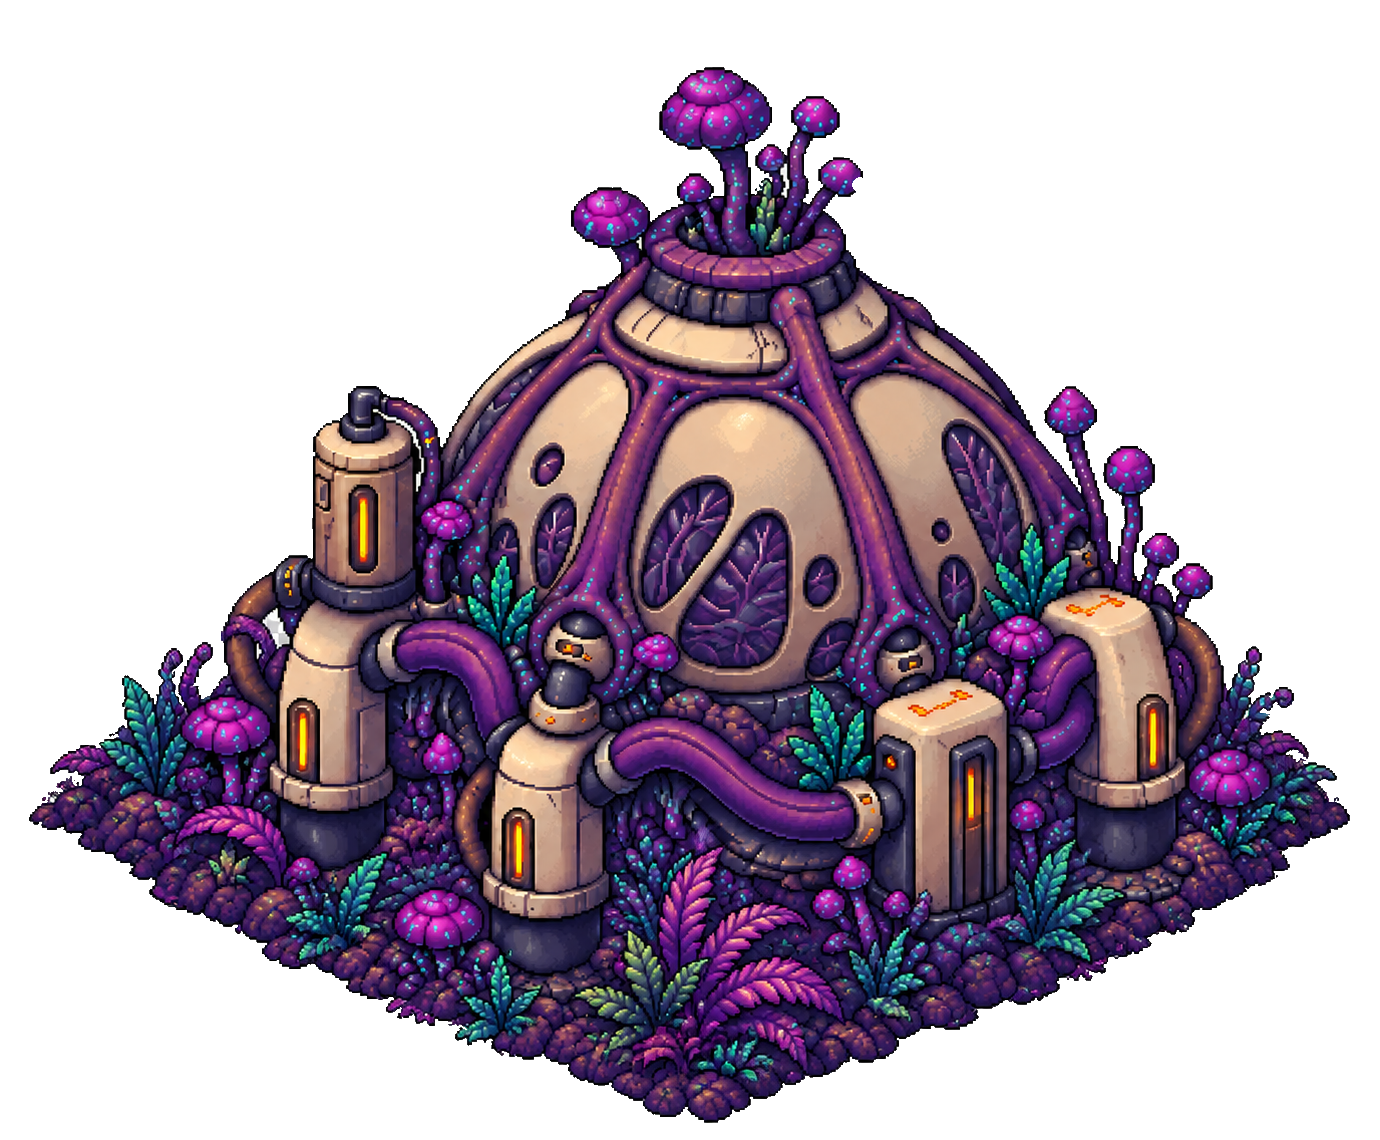
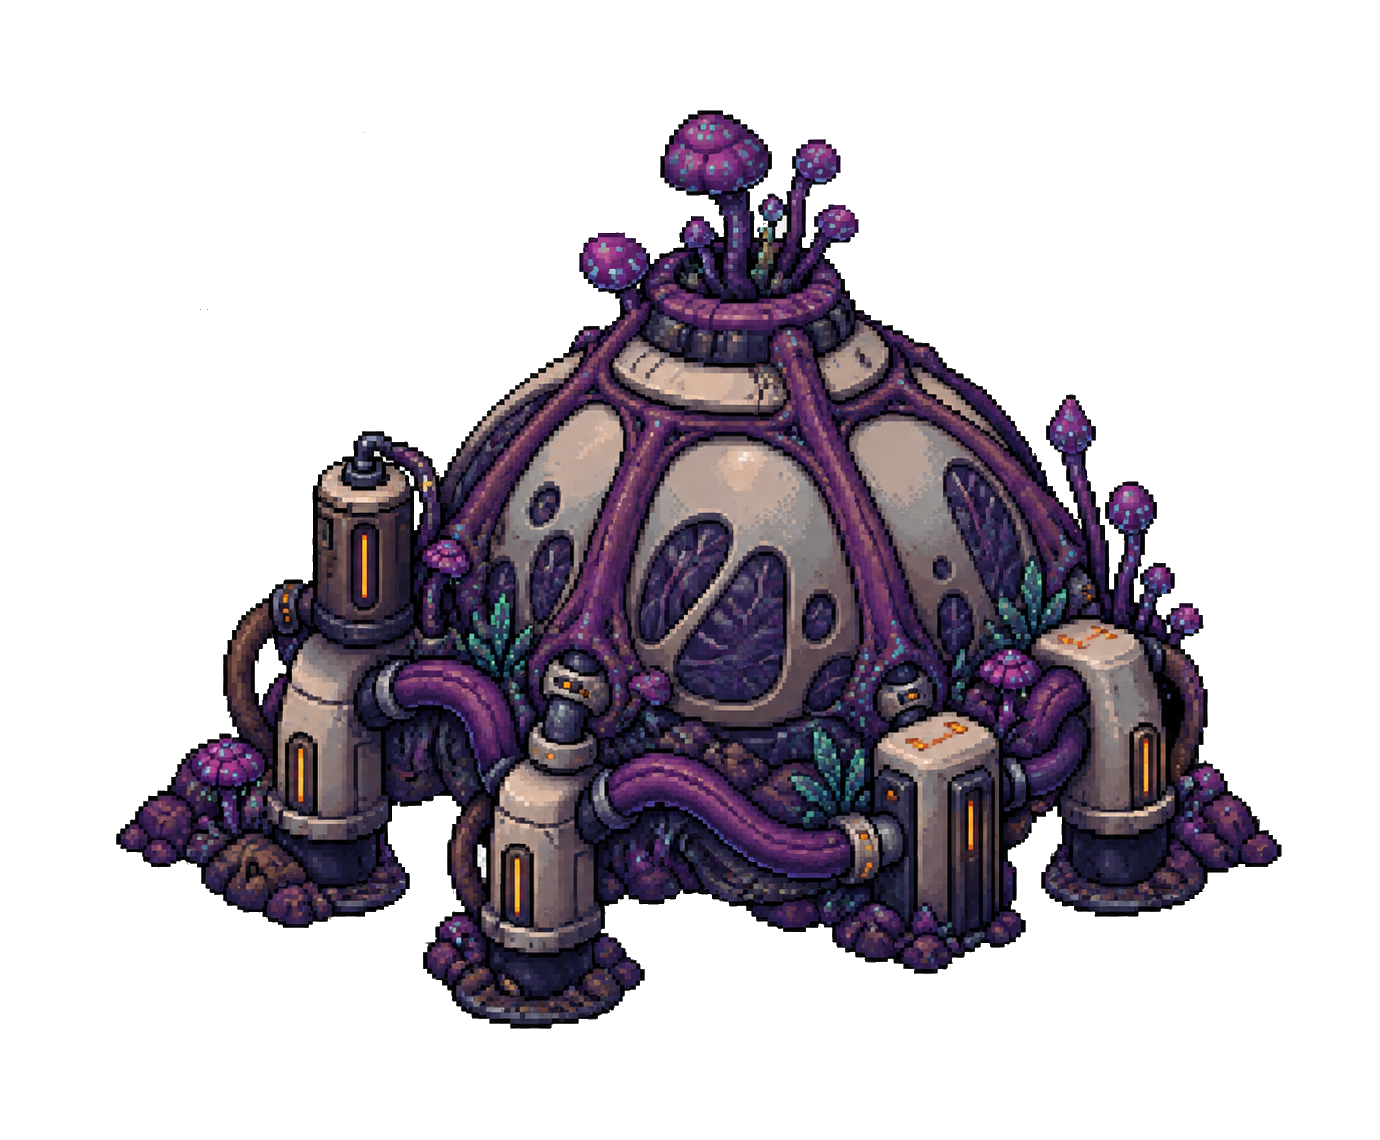
(feat) : Add asset switch between active and inactive mode

diff --git a/src/rendering/entities/drawDepthSortedWorld.ts b/src/rendering/entities/drawDepthSortedWorld.ts
@@ -13,6 +13,7 @@ export const drawDepthSortedWorld = (
   decorations: Decoration[],
   tiles: Tile[],
   assets: GameAssets,
+  bioBatteryStatus: "active" | "inactive",
 ) => {
   const createPlantDepthItem = (plant: Plant, tiles: Tile[]) => {
     const foundTile = tiles.find(tile => tile.id === plant.tileId);
@@ -73,7 +74,11 @@ export const drawDepthSortedWorld = (
 
   sortedDepthItems.forEach(item => {
     if (item.type === "decoration") {
-      drawDecoration(ctx, item.decoration, item.tile, assets);
+      const decorationToDraw =
+        item.decoration.assetKey === "bioBattery" && bioBatteryStatus === "active"
+          ? { ...item.decoration, assetKey: "bioBatteryOn" as const }
+          : item.decoration;
+      drawDecoration(ctx, decorationToDraw, item.tile, assets);
     }
     if (item.type === "plant") {
       drawPlant(ctx, item.plant, item.tile, assets);

diff --git a/src/App.tsx b/src/App.tsx
@@ -2,7 +2,7 @@ import { useEffect, useState } from "react";
 import "./App.css";
 import Canvas from "./components/Canvas/Canvas";
 import HUD from "./components/Hud/HUD";
-import { type Ressources } from "./game/type";
+import { type Ressources } from './game/type';
 import { type selectionType } from "./game/type";
 import type { GameAssets } from "./assets/assetTypes";
 import { loadAssets } from "./assets/loadAssets";
@@ -207,6 +207,7 @@ function App() {
             assets={assets}
             tiles={tiles}
             selectedSpecie={selectedSpecie}
+            bioBatteryStatus={bioBatteryStatus}
           />
         </>
       ) : (

diff --git a/src/components/Canvas/Canvas.tsx b/src/components/Canvas/Canvas.tsx
@@ -28,6 +28,7 @@ export default function Canvas({
   plants,
   assets,
   selectedSpecie,
+  bioBatteryStatus,
 }: CanvasProps) {
   const canvasRef = useRef<HTMLCanvasElement | null>(null);
 
@@ -82,6 +83,7 @@ export default function Canvas({
         initialDecorations,
         tilesRef.current,
         assetsRef.current,
+        bioBatteryStatus,
       );
 
       drawForeground(ctx, assetsRef.current);
@@ -98,7 +100,7 @@ export default function Canvas({
     return () => {
       cancelAnimationFrame(animationFrameId);
     };
-  }, []);
+  }, [assets, bioBatteryStatus]);
 
   useEffect(() => {
     const canvas = canvasRef.current;

diff --git a/src/assets/loadAssets.ts b/src/assets/loadAssets.ts
@@ -2,6 +2,7 @@ import { loadImage } from "./loadImage";
 
 export const loadAssets = async () => {
   const bioBattery = await loadImage("/assets/PNG/Assets/biobattery.png");
+  const bioBatteryOn = await loadImage("/assets/PNG/Assets/bioBattery_On.png")
   const bioPalmtree = await loadImage("/assets/PNG/Assets/bioPalmtree.png");
   const trapStore = await loadImage("/assets/PNG/Assets/trapStore.png");
   const bioTerminal = await loadImage("/assets/PNG/Assets/bioTerminal.png");
@@ -60,6 +61,7 @@ export const loadAssets = async () => {
 
   return {
     bioBattery,
+    bioBatteryOn,
     bioPalmtree,
     trapStore,
     bioTerminal,

diff --git a/src/components/Hud/ContextualHuds/DecorationHud/DecorationHud.tsx b/src/components/Hud/ContextualHuds/DecorationHud/DecorationHud.tsx
@@ -64,7 +64,13 @@ export default function DecorationHud({
                     padding: 4,
                     borderRadius: 5,
                   }}
-                  disabled={!canActivateBioBattery(bioBatteryStatus, unlockedAbilities ,ressources)}
+                  disabled={
+                    !canActivateBioBattery(
+                      bioBatteryStatus,
+                      unlockedAbilities,
+                      ressources,
+                    )
+                  }
                   onClick={() => handleBioBatteryActivation()}
                 >
                   Activer ({BIO_BATTERY_ACTIVATION_COST} Bio Energie)

diff --git a/src/components/Hud/Abilities/newAbilityUnlockNotification.tsx b/src/components/Hud/Abilities/newAbilityUnlockNotification.tsx
@@ -1,14 +1,9 @@
 import type { Ability } from "../../../game/abilities/abilities.type";
 
-export default function newAbilityUnlockNotification(
-  newlyUnlockAbility: Ability,
-  //   setNewlyUnlockAbility: React.Dispatch<SetStateAction<Ability | null>>,
-) {
+export default function newAbilityUnlockNotification(newlyUnlockAbility: Ability) {
   return (
-    <>
-      <div>
-        <h3>Nouvelle capacité débloquée : {newlyUnlockAbility}</h3>
-      </div>
-    </>
+    <div>
+      <h3>Nouvelle capacité débloquée : {newlyUnlockAbility}</h3>
+    </div>
   );
 }

diff --git a/src/components/Hud/RessourcesScreen/RessourcesScreen.tsx b/src/components/Hud/RessourcesScreen/RessourcesScreen.tsx
@@ -24,6 +24,7 @@ export default function RessourcesScreen({
       className={styles.ressourcesScreenContainer}
       style={{
         display: !HUDContainerSize ? "none" : "flex",
+        // flexDirection: "column",
       }}
     >
       {Object.entries(ressources).map(([assetKey, value]) => {

diff --git a/src/assets/assetTypes.ts b/src/assets/assetTypes.ts
@@ -3,6 +3,7 @@ export type DecorationAssetsKey =
   | "bioPalmtree"
   | "trapStore"
   | "bioBattery"
+  | "bioBatteryOn"
   | "inventoryIcon"
   | "alienGround"
   | "alienGroundTwo"

diff --git a/src/components/Canvas/Canvas.interface.ts b/src/components/Canvas/Canvas.interface.ts
@@ -16,4 +16,5 @@ export interface CanvasProps {
   assets: GameAssets;
   plants: Plant[];
   selectedSpecie: Species | null;
+  bioBatteryStatus: "active" | "inactive";
 }
